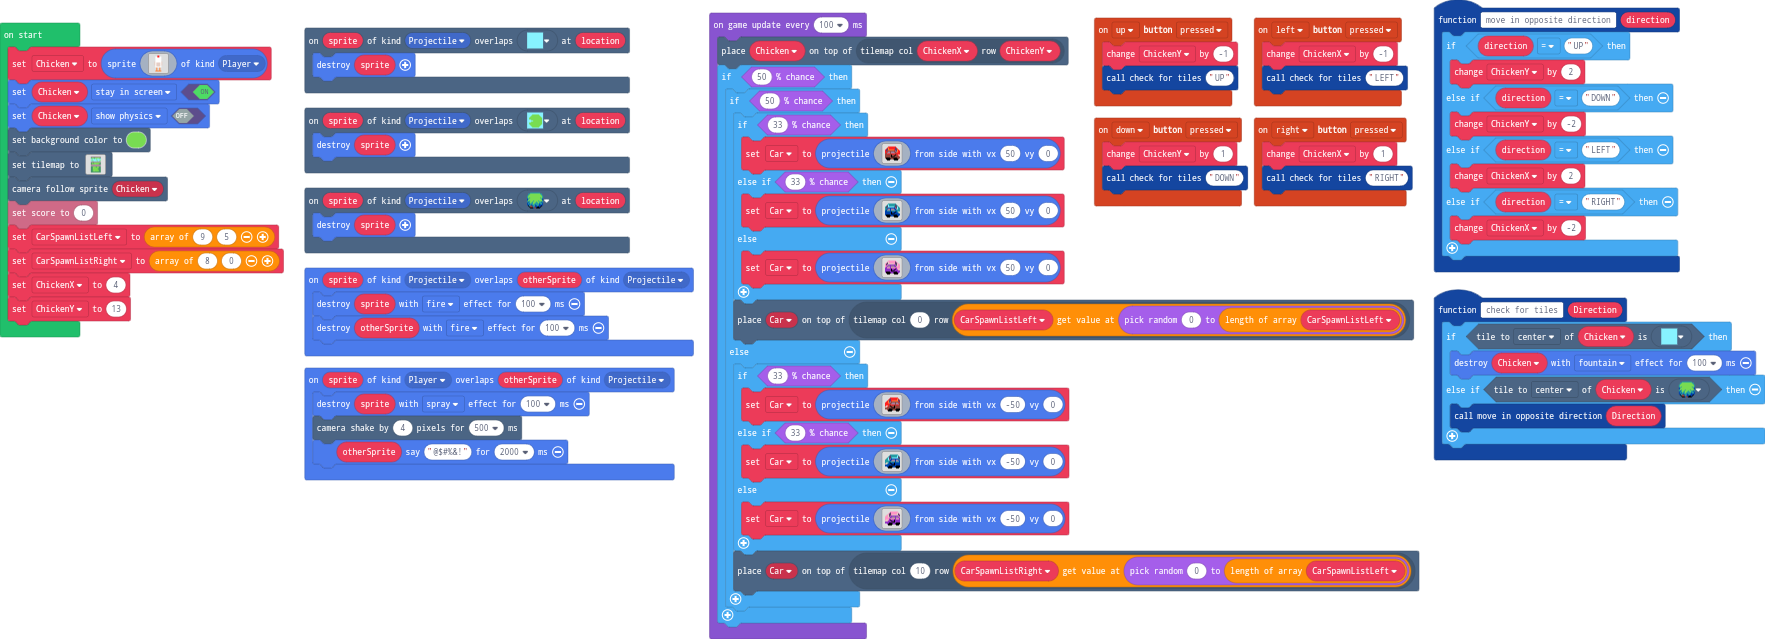
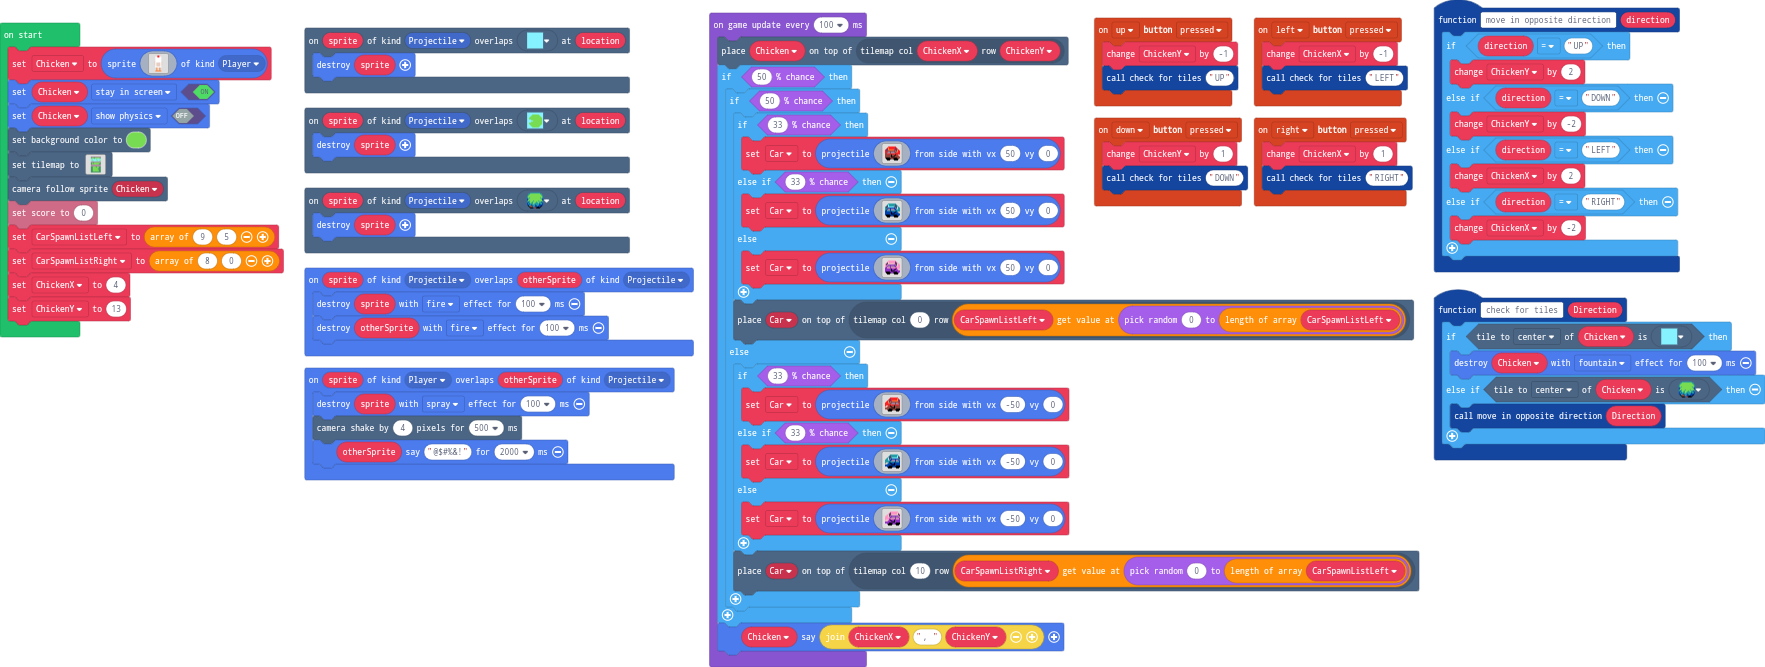
Update main.blocks, main.ts

diff --git a/main.ts b/main.ts
@@ -311,4 +311,5 @@ game.onUpdateInterval(100, function () {
             tiles.placeOnTile(Car, tiles.getTileLocation(10, CarSpawnListRight[Math.randomRange(0, CarSpawnListLeft.length)]))
         }
     }
+    Chicken.say("" + ChickenX + ", " + ChickenY)
 })
